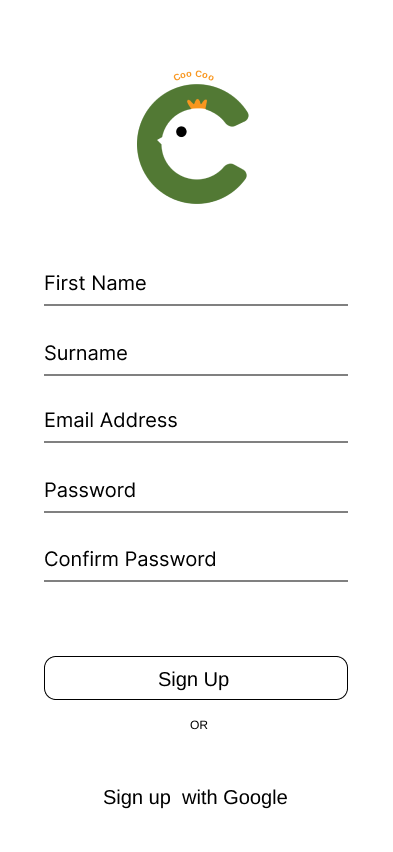
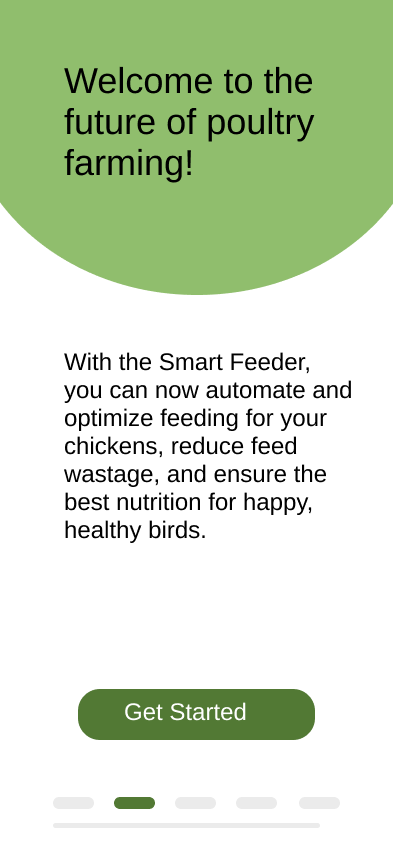
add onboarding and signup login wireframes

diff --git a/README.md b/README.md
@@ -1,3 +1,2 @@
 # CooCoo-app
-# CooCoo-app
-# CooCoo-app
+
